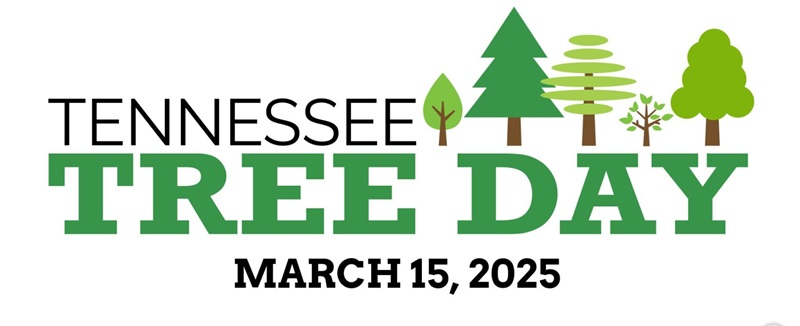
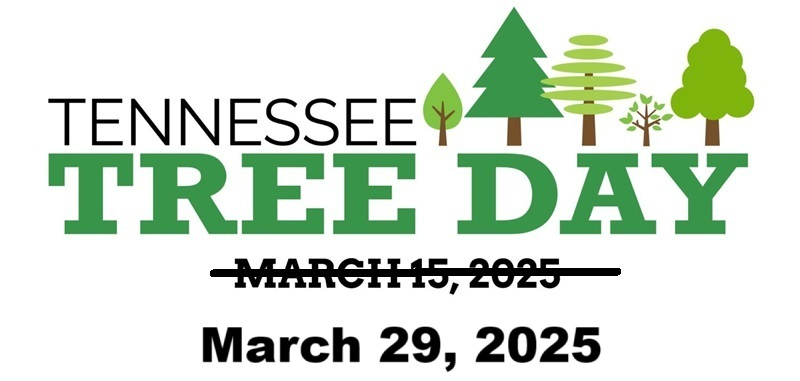
tree day change

Changed region(s): [[0.0625, 0.0307, 0.9688, 0.9816], [0.9375, 0.9816, 0.9688, 1.0]]

diff --git a/members.htm b/members.htm
@@ -822,7 +822,7 @@ exports.init = init;
                 templateToggleAltShow = "template_toggle_show",
                 templateToggleAltHide = "template_toggle_hide",
                 isRememberEnabled = true,
[2 lines of base64/hex data omitted]
 
             // you can edit these values to customize some of the behavior of StatiCrypt
             const templateConfig = {

diff --git a/members1.htm b/members1.htm
@@ -97,7 +97,7 @@
 
 <div class="dropdown">
 <a href="documents/project_leads.html" target="_blank"> 
-<button class="dropbtn">PROJECT<br> LEADS</button>
+<button class="dropbtn">PROJECT<br> LEADS</button></a>
 </div>
 <!--
 <a class= "menu" href="photos.htm">PHOTOS</a>-->
@@ -105,7 +105,10 @@
 
 <h1> Job Openings and Other Announcements</h1>
 <div class = "announcement">
-  
+  <p>WE MUST MOVE TREE DAY TO THE WEEKEND OF MARCH 28-29, AND WE ARE RE-OPENING ONLINE TREE
+  RESERVATIONS THROUGH MARCH 16.  BUNDLING DAY WILL BE MOVED TO 3/27.  THIS IS DUE TO INCLEMENT
+  WEATHER AND FREEZING TEMPERATURES.  THE GROWERS HAVE BEEN UNABLE TO HARVEST THEIR TREES.TREE
+  RESERVATIONS HAVE BEEN REOPENED UNTIL MARCH 16.<br></p>
  
  <i> ***End of announcements***</i>
 </div>

diff --git a/index.htm b/index.htm
@@ -98,7 +98,7 @@ target="_blank">
 <img src="images/current_events/tree_day.jpg" alt="Tree Day" width="800" height="326" >
          </img></a>
 	     <p id="currentevent" width="100"> 
-		 Reserve your native trees now through March 2nd, 2025.
+		 Reserve your native trees now through March 16, 2025.
 		 Click the image to learn more. 
 		  <br>    </p>
 <br><br><br>
